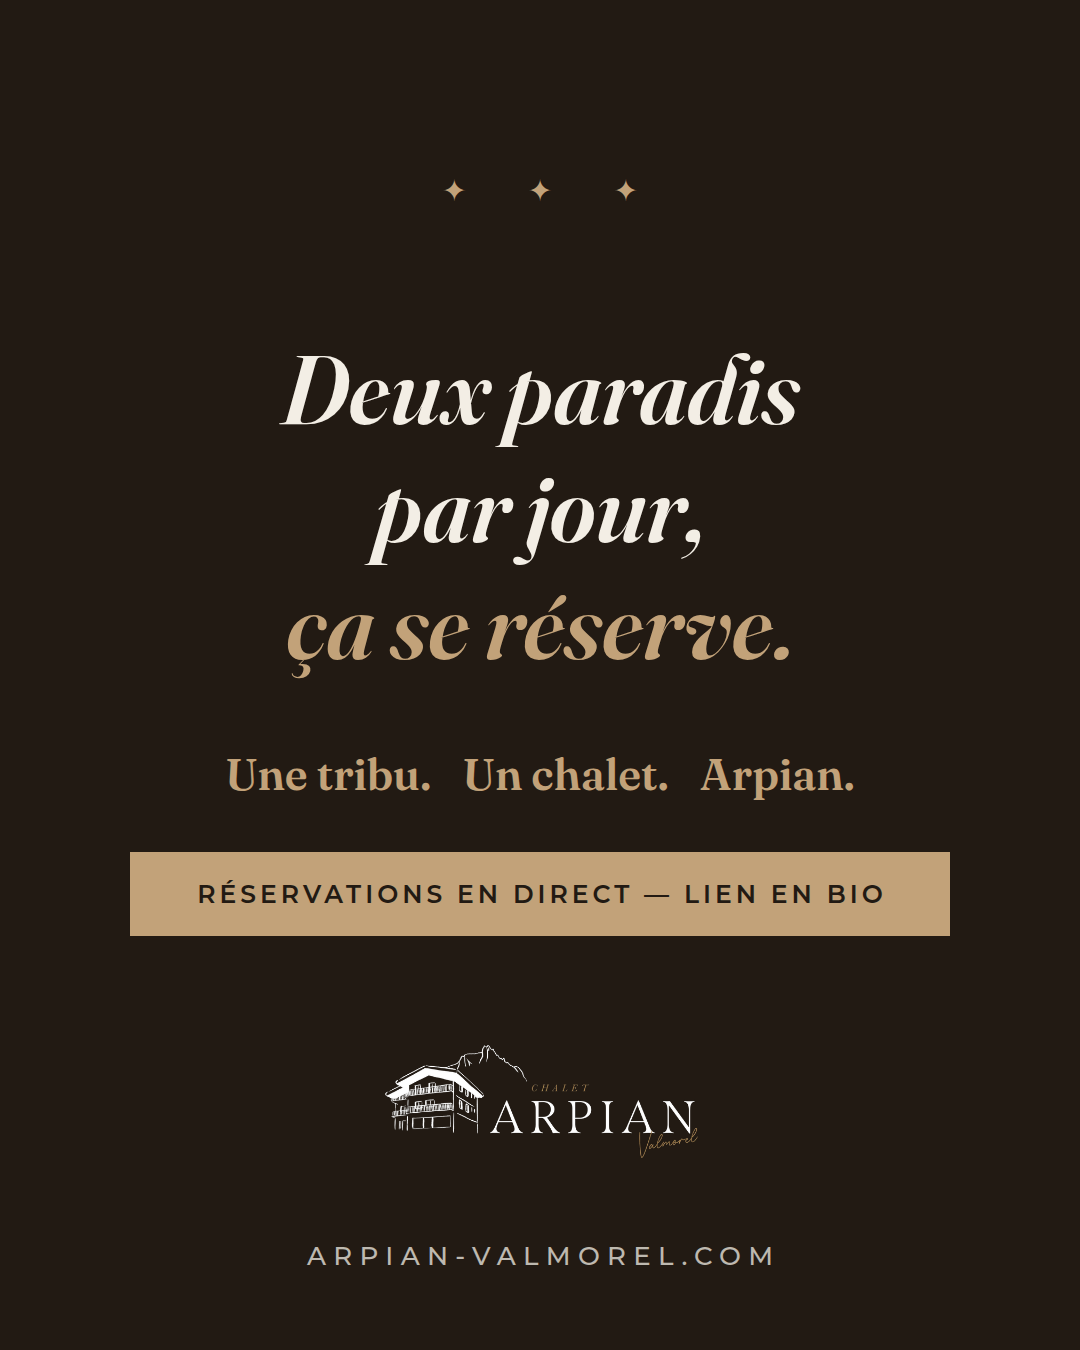
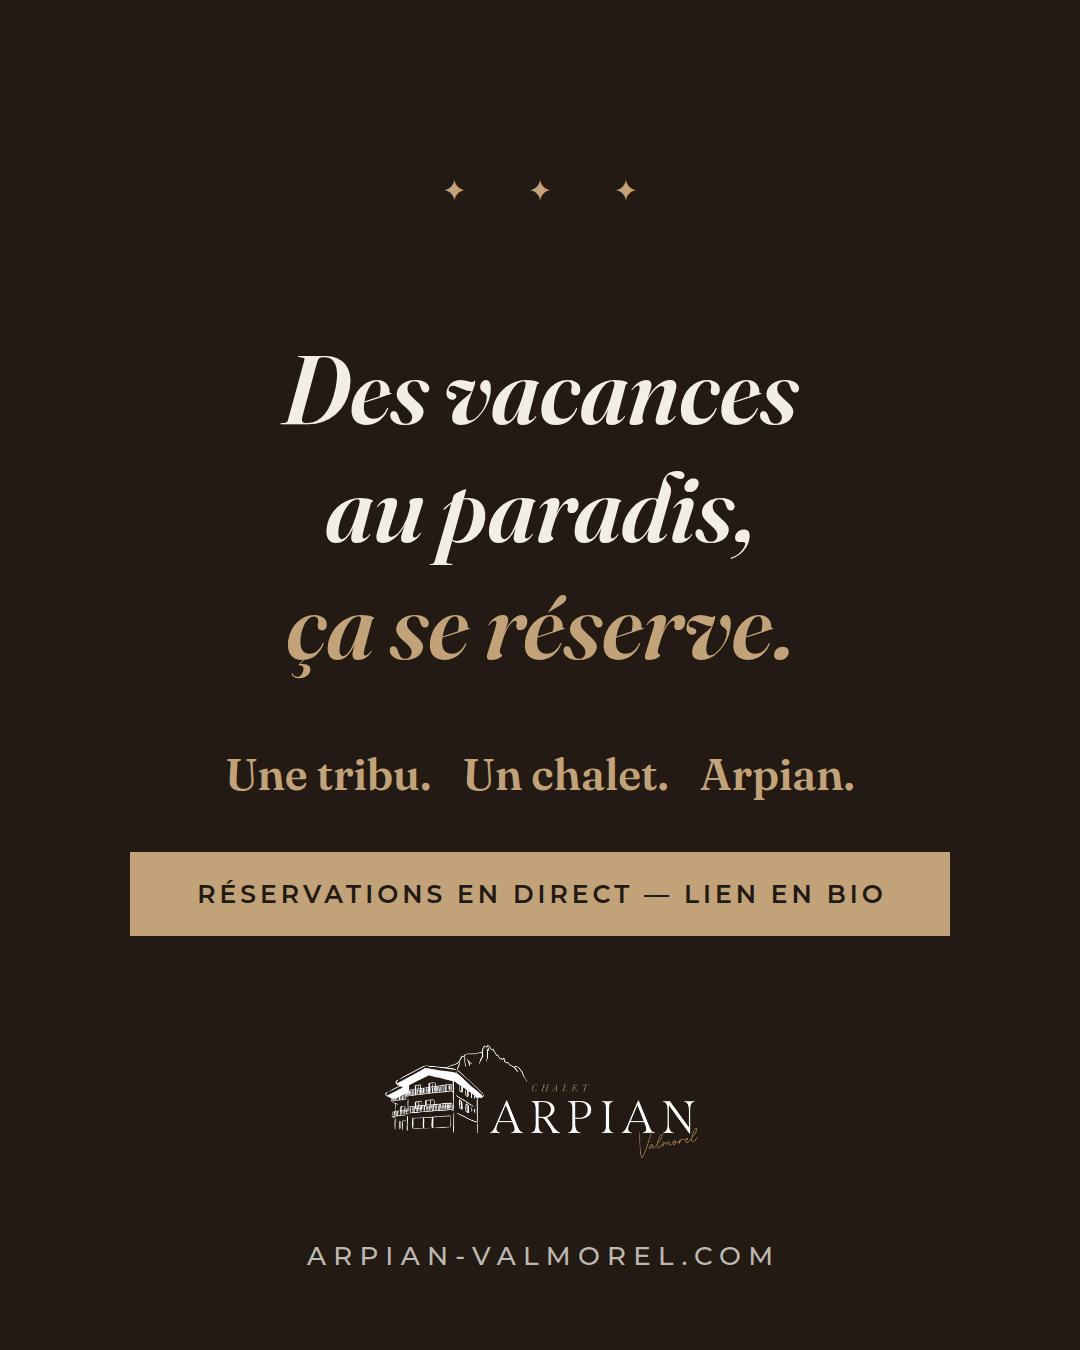
Update closing headline to vacation-in-paradise message
« Des vacances au paradis, ca se reserve. »

Claude-Session: https://claude.ai/code/session_01RLUktmYZh4ZTRRqprvaJEy

Changed region(s): [[0.3056, 0.3422, 0.7028, 0.4356], [0.3056, 0.2489, 0.7333, 0.3422]]

diff --git a/projects/arpian/instagram-carousel/slide-03-cloture.html b/projects/arpian/instagram-carousel/slide-03-cloture.html
@@ -72,7 +72,7 @@
     <div class="stars">&#10022;&nbsp;&#10022;&nbsp;&#10022;</div>
 
     <div class="content">
-      <h1>Deux paradis<br>par jour,<br><span class="accent">&ccedil;a se r&eacute;serve.</span></h1>
+      <h1>Des vacances<br>au paradis,<br><span class="accent">&ccedil;a se r&eacute;serve.</span></h1>
       <div class="sub">Une tribu. &ensp;Un chalet. &ensp;Arpian.</div>
     </div>
 
